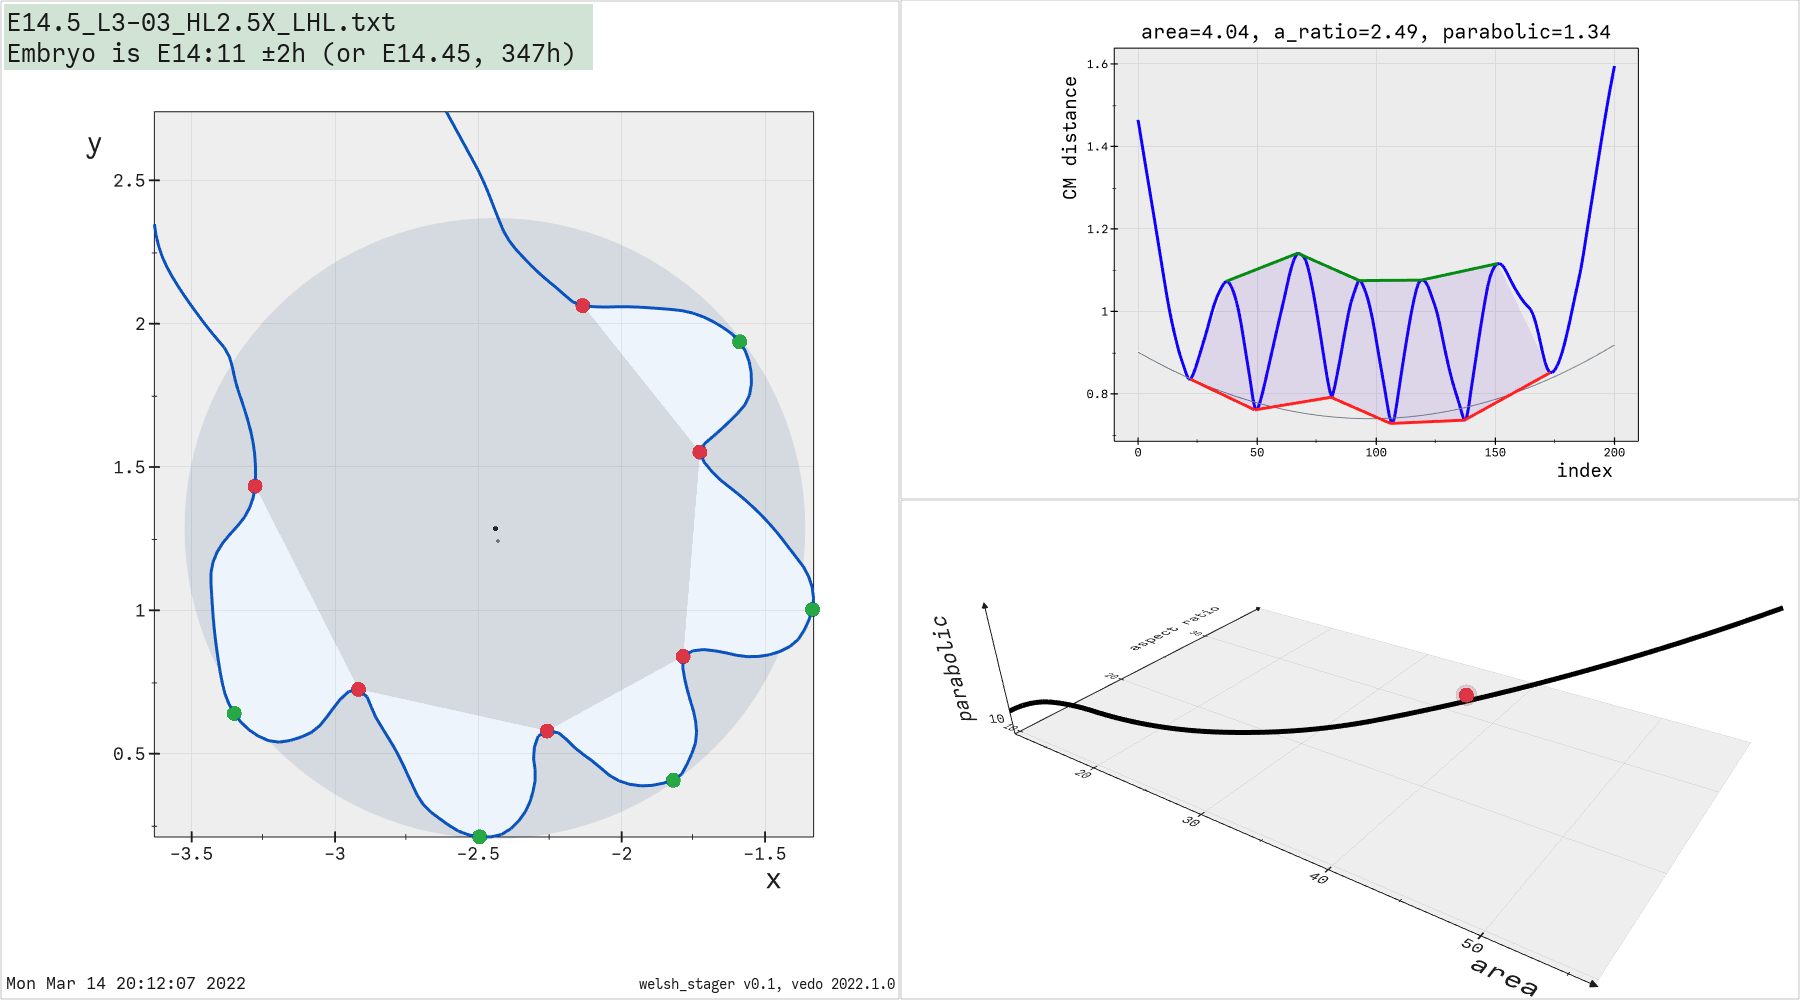
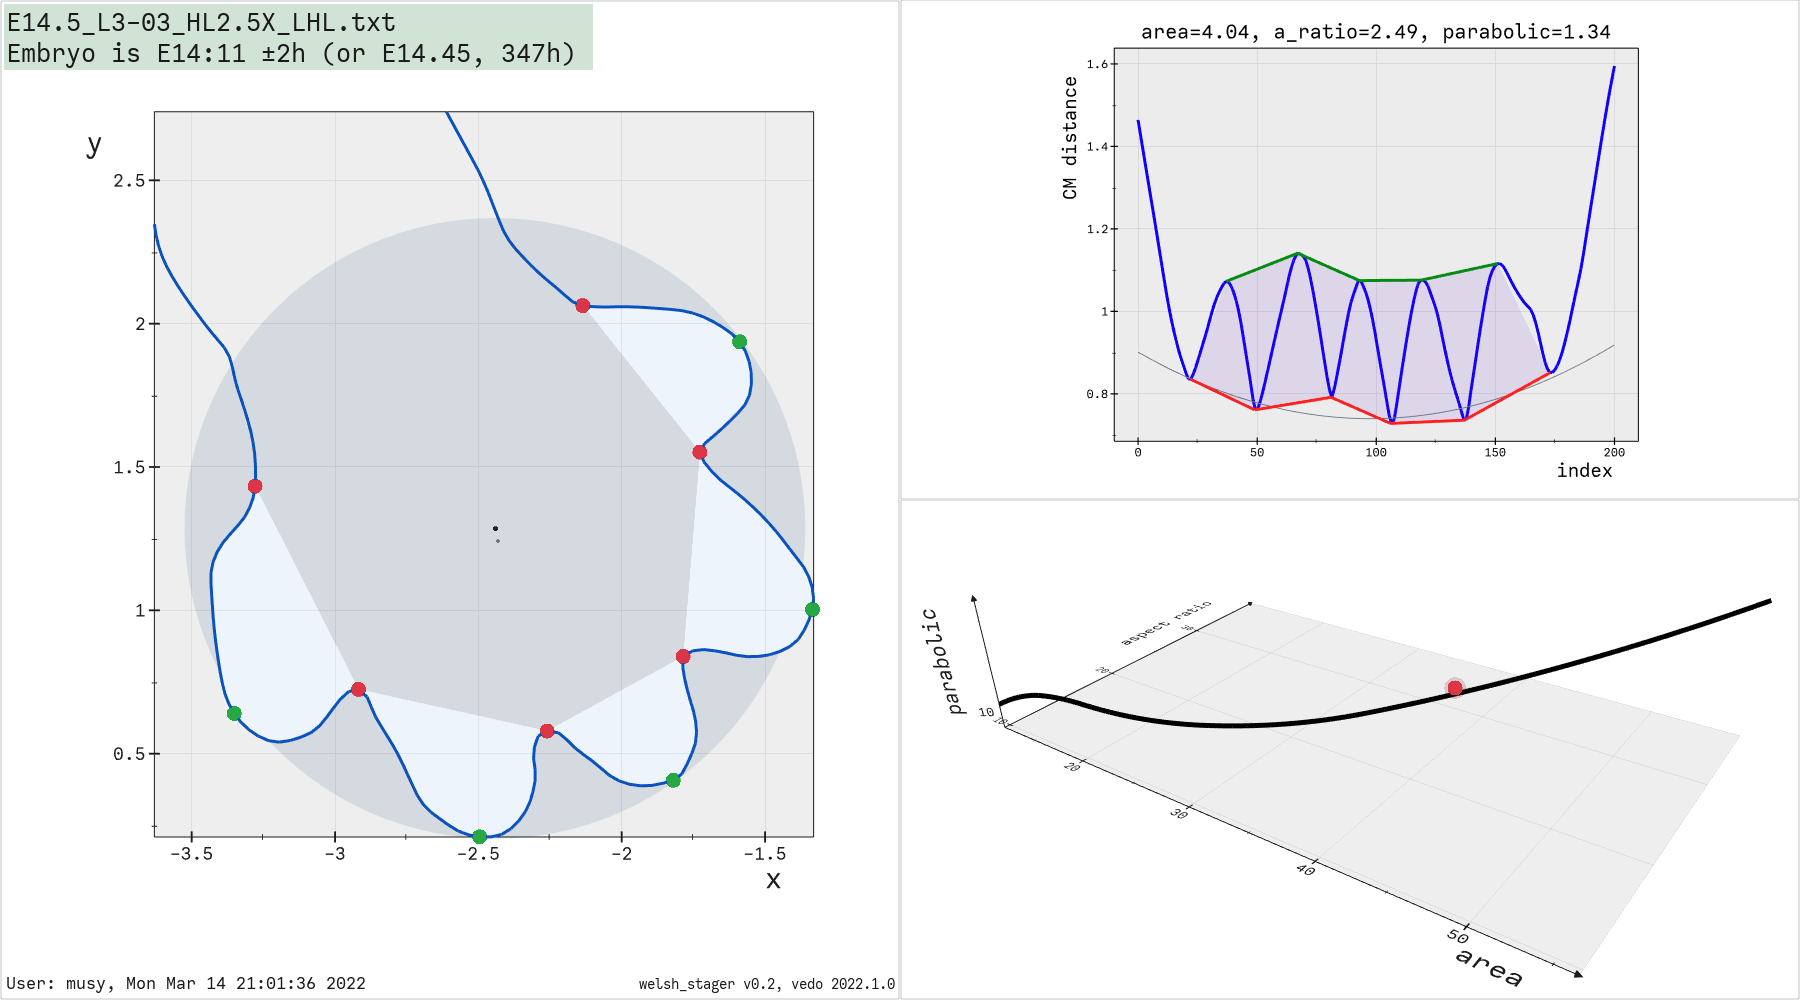
fixes

diff --git a/stager.py b/stager.py
@@ -275,19 +275,23 @@ def predict(datapoints, embryoname='', do_plots=True):
                       f" (or E{fdays(best_age)}, {int(best_age+0.5)}h) ",
                       pos='top-left', bg='g3', s=1.2)
 
-        now  = Text2D(datetime.now().strftime("%c"), pos='bottom-left', s=0.8)
+        now  = Text2D(f'User: {os.getlogin()}, {datetime.now().strftime("%c")}',
+                      pos='bottom-left', s=0.8)
         vers = Text2D(f"{_version}, vedo {_vedo_version}", pos='bottom-right', s=0.7)
 
+        if not len(vobj):
+            print("ERROR: sorry, could not find a solution. Try again with new points.")
+            return [], 0,0,0
 
         plt = Plotter(size=(1800, 1000), shape="1|2", sharecam=False,
                       title="Welsh Mouse Staging System Output")
         plt.show(vobj[:-1]+[txtf, now, vers], at=0, zoom=1.2)
         plt.show(vobj[-1],  at=1, zoom=1.5)
-        cam = dict(pos=(66.09, -24.32, 42.84),
-                   focalPoint=(34.14, 20.14, 9.436),
+        cam = dict(pos=(66.85, -24.10, 42.42),
+                   focalPoint=(34.89, 20.37, 9.009),
                    viewup=(-0.2861, 0.4357, 0.8534),
                    distance=64.14,
-                   clippingRange=(12.96, 129.5))
+                   clippingRange=(13.00, 129.6))
         plt.show(tcourse, pt, joinline, err_sphere, axes, comment, camera=cam, at=2)
 
         # create a png file
@@ -330,11 +334,11 @@ if __name__ == '__main__':
         else:
             pic = Picture(filename, channels=(0,1,2))
 
-            t = """Click to add a point
-            Right-click to remove it
-            Drag mouse to change constrast
-            Press c to clear points"""
-            instrucs = Text2D(t, pos='bottom-left', c='k1', bg='g9', font='Quikhand')
+            t = "Click to add a point\n"
+            t+= "Right-click to remove it\n"
+            t+= "Drag mouse to change constrast\n"
+            t+= "Press c to clear points"
+            instrucs = Text2D(t, pos='bottom-left', c='k1', bg='g9', font='Quikhand', alpha=0.5)
 
             plt = SplinePlotter(size=(1200,1000), title="Welsh Mouse Staging System")
             plt.addCallback('KeyPress', plt.keyPress)
@@ -343,10 +347,11 @@ if __name__ == '__main__':
             plt.show(pic, instrucs, mode='image', zoom='tight')
             #plt.close()
             datapoints = plt.datapoints()
-            if len(datapoints) > 3:
+            if len(datapoints) > 5:
                 name = os.path.basename(filename)
                 result = predict(datapoints, embryoname=name)
-                pic_array, best_age, sigma, best_score = result
+            else:
+                print("ERROR: not enough points to stage a limb!", len(datapoints))
 
 
 

diff --git a/utils.py b/utils.py
@@ -34,8 +34,14 @@ class SplinePlotter(Plotter):
         self.points = Points(self.cpoints).ps(10).c('purple5')
         self.points.pickable(False)  # avoid picking the same point
         if len(self.cpoints) > 2:
-            self.spline = Spline(self.cpoints, closed=False).c('yellow5').lw(3)
-            self.add([self.points, self.spline])
+            try:
+                self.spline = Spline(self.cpoints, closed=False).c('yellow5').lw(3)
+                self.add([self.points, self.spline])
+            except ValueError:
+                # tipically clicking too close points make Spline fail
+                self.cpoints = []
+                self.remove([self.spline, self.points]).render()
+                return
         else:
             self.add(self.points)
 

diff --git a/README.md b/README.md
@@ -6,8 +6,12 @@ Stage an embryo in the age range `E14` - `E15` by drawing a spline on a photogra
 
 - Install miniconda (if needed) from [here](https://docs.conda.io/en/latest/miniconda.html).
 
-- Install [`vedo`](https://vedo.embl.es/) <br>
-`pip install vedo==2022.1.0`
+- Install [`vedo`](https://vedo.embl.es/)
+```bash
+conda install numpy
+conda install scipy
+pip install vedo==2022.1.0
+```
 
 - Copy the repository locally eg. <br>
 `git clone https://github.com/marcomusy/welsh_embryo_stager.git`
@@ -16,27 +20,30 @@ Stage an embryo in the age range `E14` - `E15` by drawing a spline on a photogra
 
 - Run the program <br>
 `python stager.py pics/E14.5_L3-03_HL2.5X.jpg`
-<br>
-Draw a spline by clicking points on your image
+
+- Draw a spline by clicking points on your image
 
 ![](https://user-images.githubusercontent.com/32848391/158235171-80618fb1-ae35-4a30-8279-4dabdd35a92d.png)
 
 
-can also read and stage a text file directly with:<br>
+Can also read and stage a text file directly with:<br>
 `python stager.py pics/E14.5_L3-03_HL2.5X_LHL.txt`
 
 5. Press `q` when finished, an output window will show up with the age of the embryo
 
 ![](https://user-images.githubusercontent.com/32848391/158235205-438510d4-6707-4e37-b9bb-17f6516244a1.png)
 
+The above output image and a text file with clicked points are saved to directory `output/` for reference.
 
 ### Description
 
-Use shape descriptors to calibrate the age over a dataset of about 190 embryos.
+Use three shape descriptors to calibrate the age over a dataset of about 190 embryos.
 The algorithm gives reliable estimates only in the range `E14` to `E15`.
+**Outside of this range results are not reliable.**
 User should check that finger peaks and valleys (marked in green and red)
-on the left plot are correctly identified.
+on the left plot are reasonably identified.
 
 The error estimation is completely heuristic and should be taken as a rough indication.
+You can interact with the 3D scene of the bottom-right plot.
 
 
